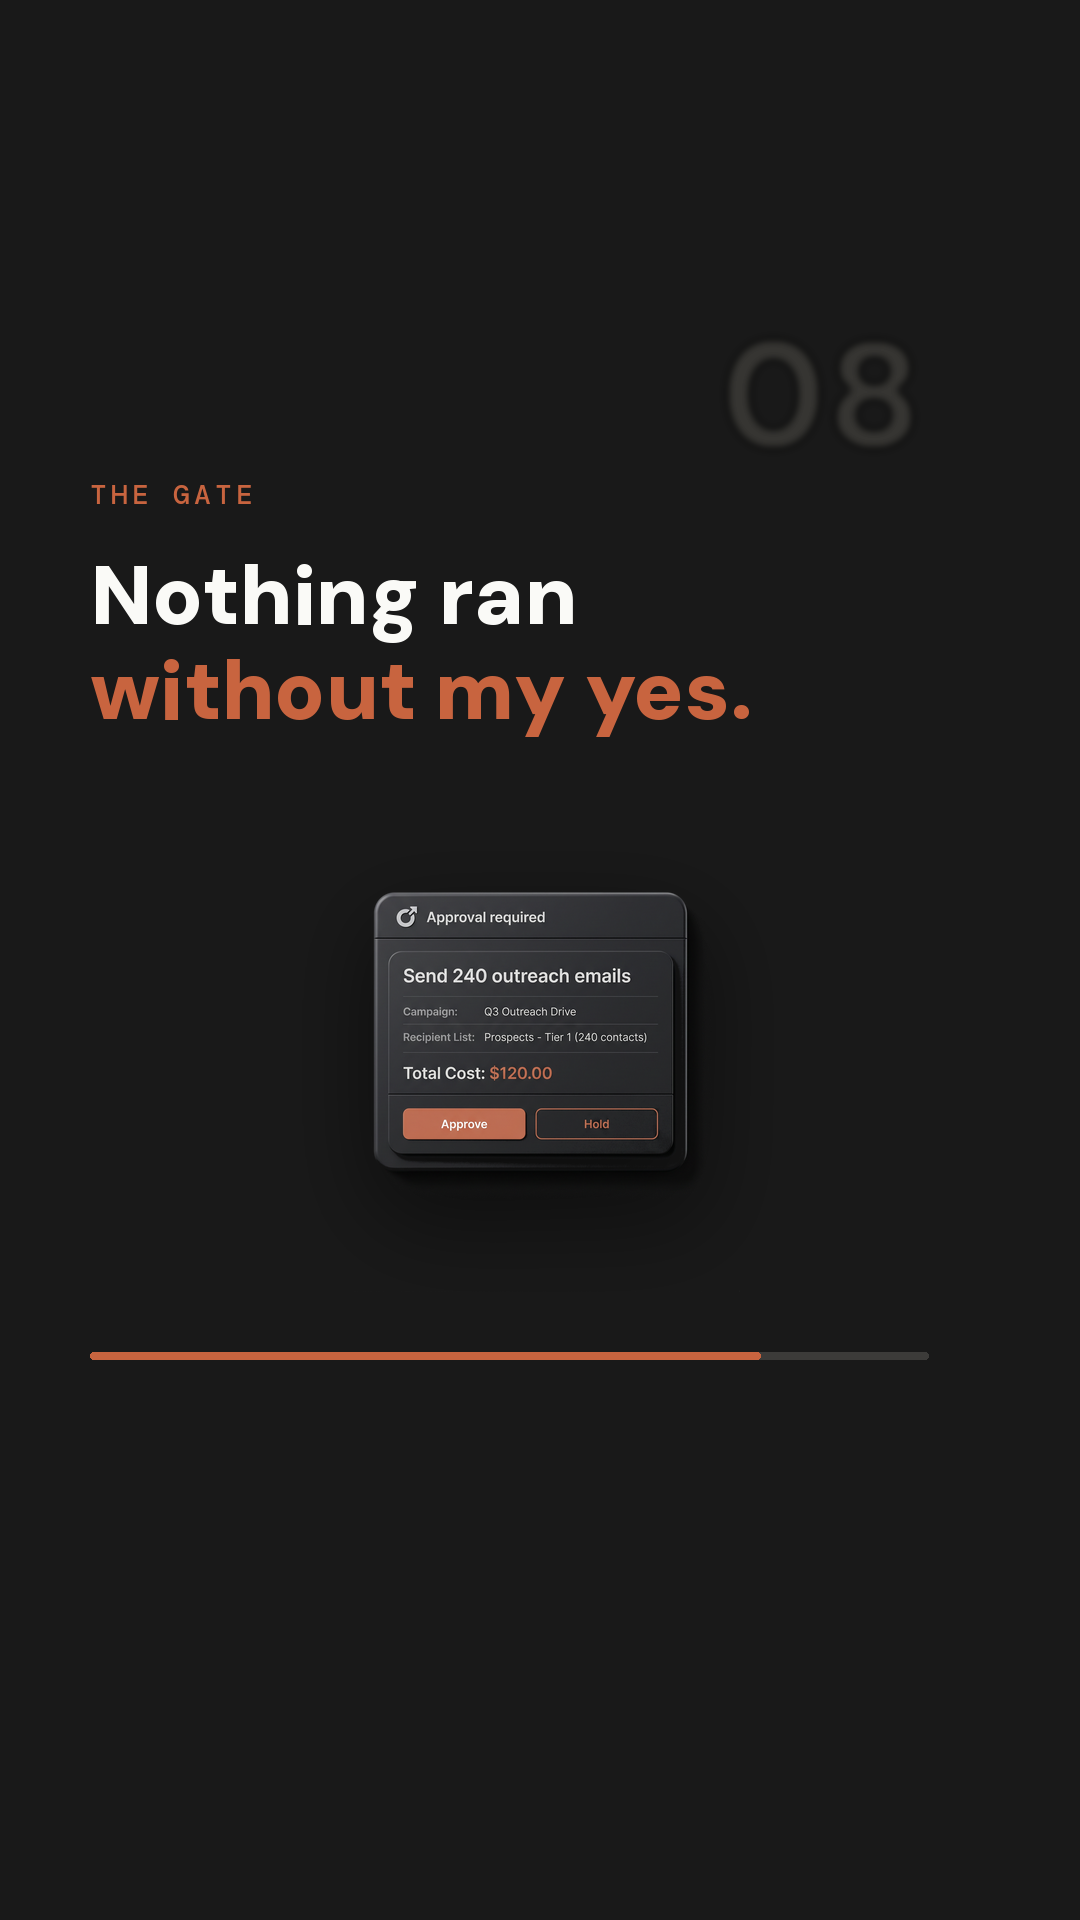
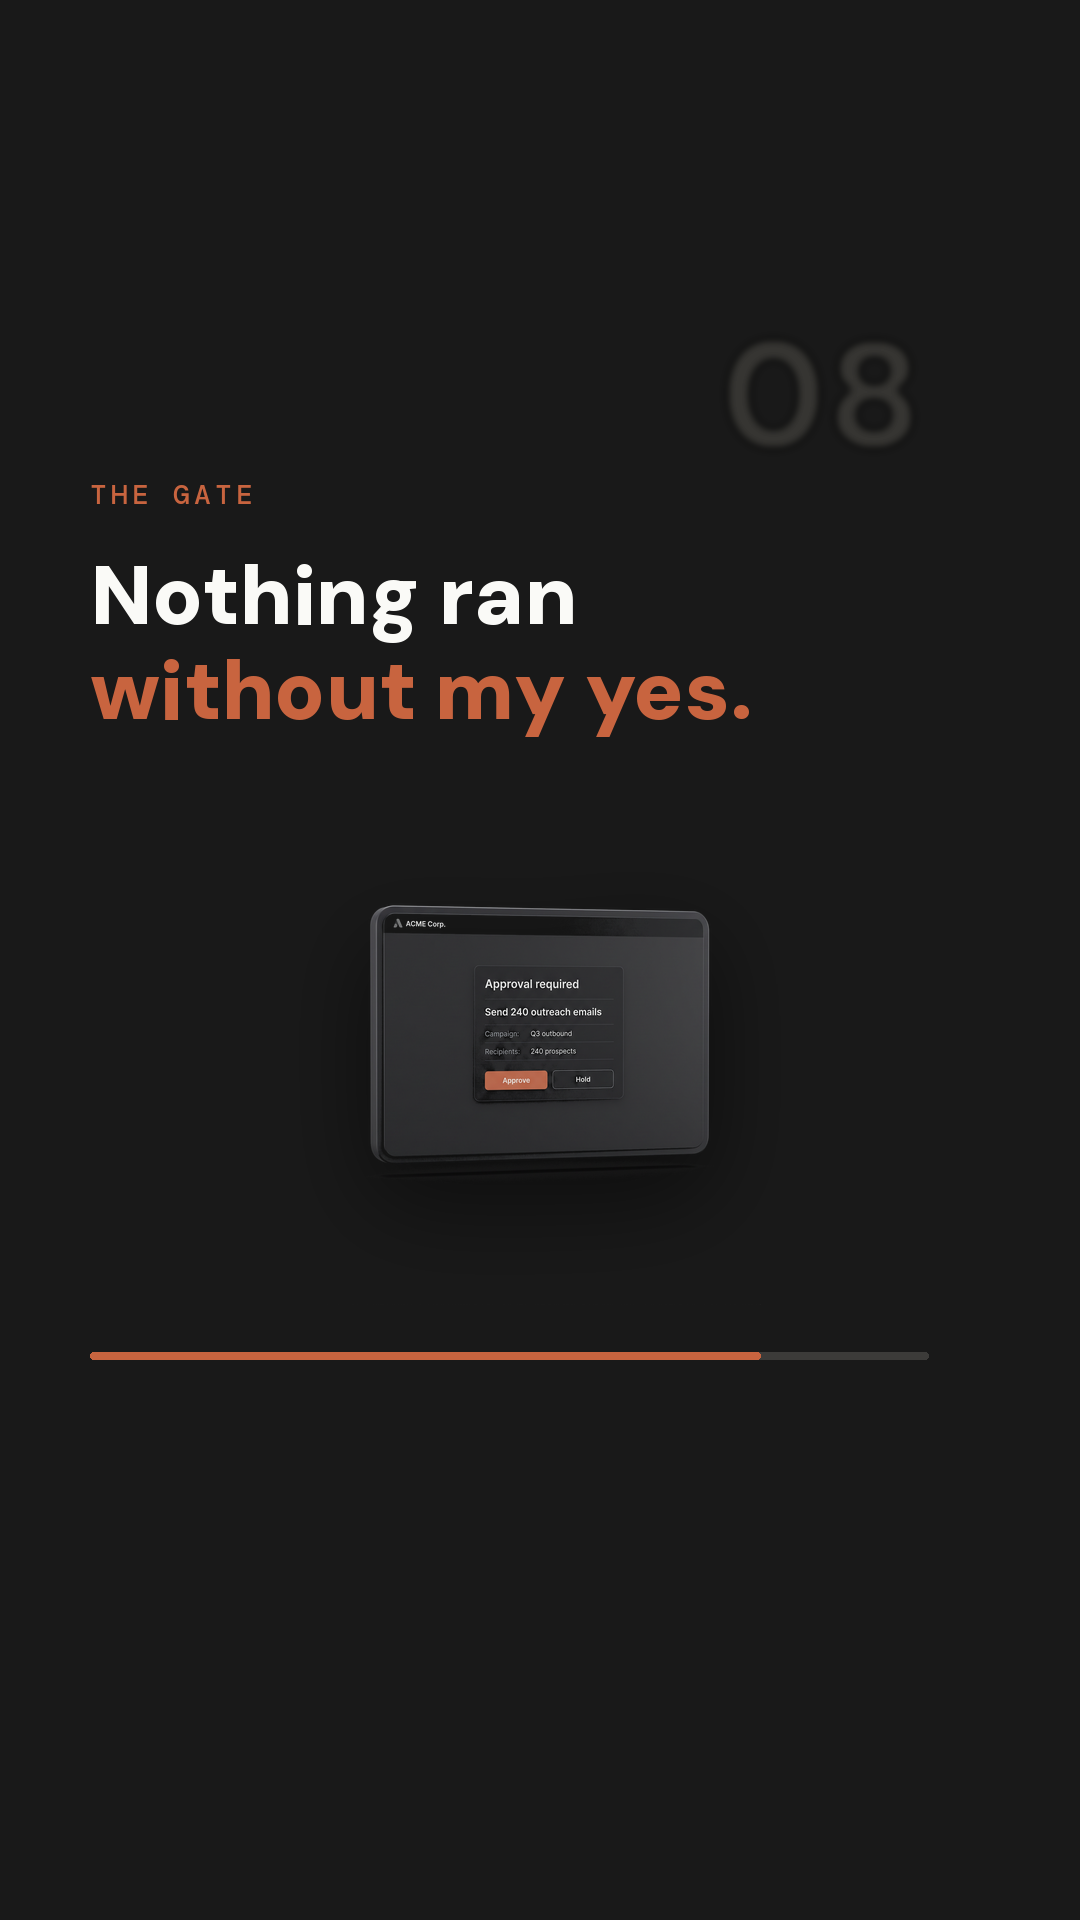
Fix scary $120 price on sleep gate (no price); add cents value-prop rule
The MONEY IN YOUR SLEEP gate showed 'Total Cost $120' for 240 emails - scary and
against Ultron's cents value prop. Regenerate gate with no price. CLAUDE.md S31:
never show high Ultron prices; cents only; high $ allowed only as competitor cost.

Claude-Session: https://claude.ai/code/session_014kd6D8JB5VW3pfqpgRb2H7

Changed region(s): [[0.3361, 0.4375, 0.6722, 0.625]]

diff --git a/CLAUDE.md b/CLAUDE.md
@@ -1157,6 +1157,12 @@ Applies to the Ultron chat object, any app/landing object, footers and covers. (
 must show the Ultron brand are generated with the sphere; if Vertex renders the wrong mark, regenerate
 or composite the real sphere.)
 
+**Pricing value-prop rule (operator, 2026-06-29 - binding):** Ultron's price story is **cents** -
+pay-per-token, "cents per thousand rows", everything at Ultron costs cents. NEVER show a scary/high
+dollar amount for an Ultron action in a material (e.g. "$120 to send 240 emails") - it frightens
+clients and contradicts the cents value prop. Either show no price, or a tiny cents figure. High
+prices may ONLY appear as a COMPETITOR's cost (the expensive stack Ultron replaces), never as ours.
+
 **Object quality bar (operator, 2026-06-28):** the UNFAIR ADVANTAGE material is the reference - every
 3D object is a recognizable REAL app dashboard/window (real logos), dense and concrete, one material
 system (charcoal / softbox / one warm-orange accent), front-on and complete. Match or beat that bar;
